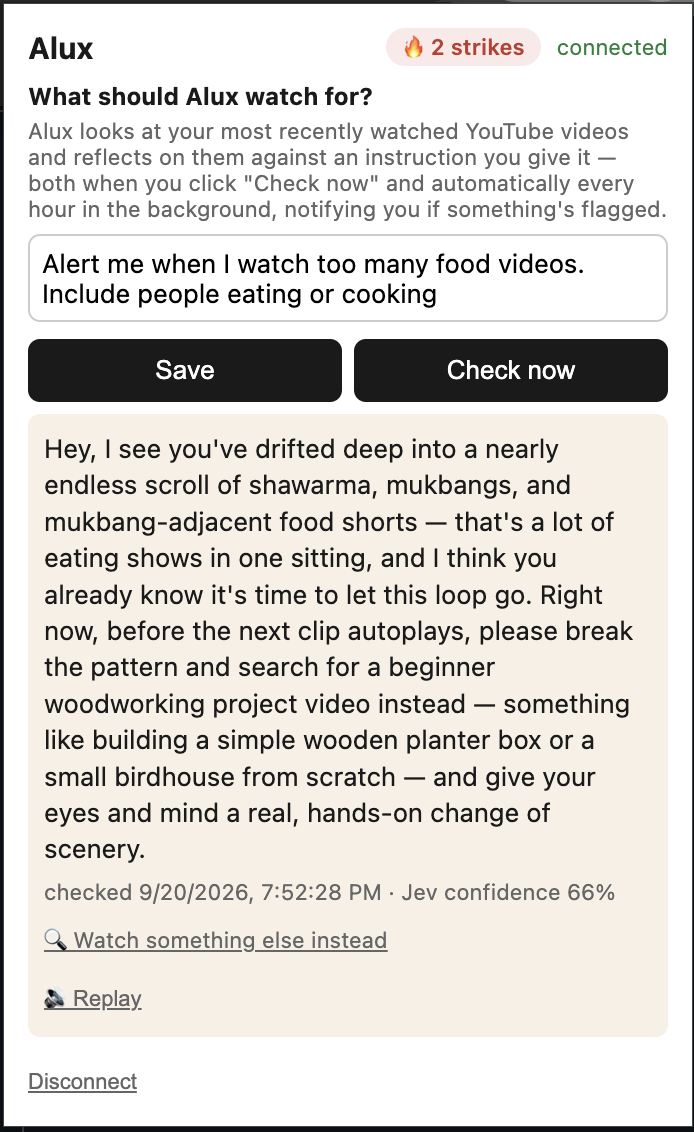
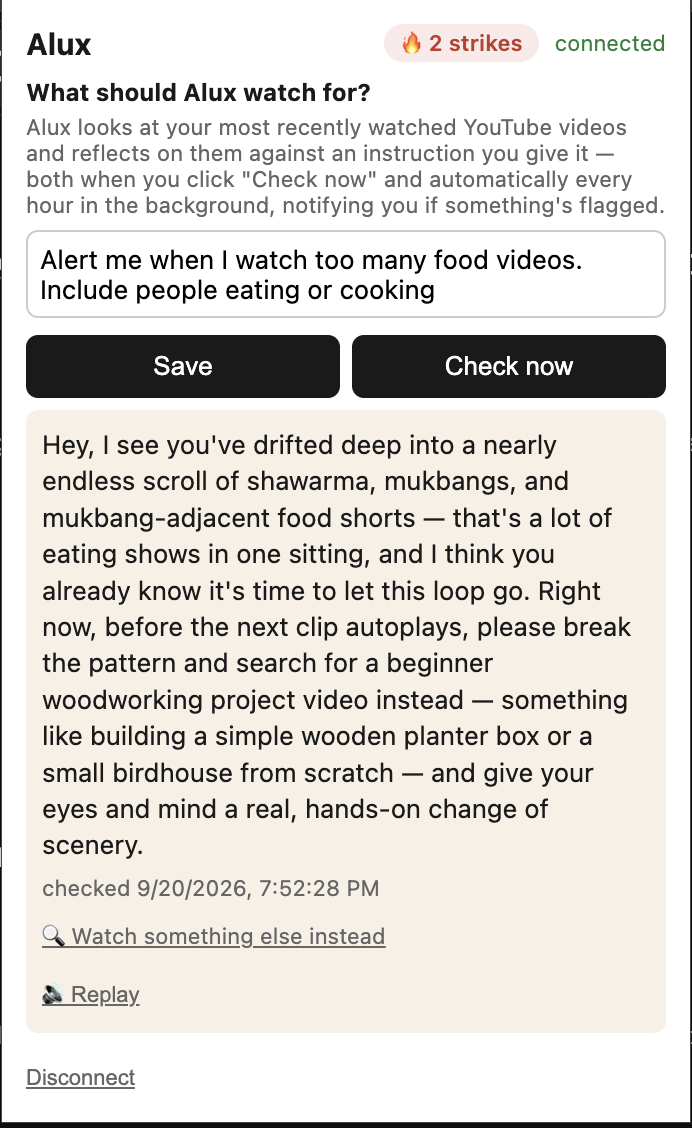
Trim the footer note from EVAL_RESULTS.md, update screenshot
Update the screenshot to match the current popup UI.

diff --git a/EVAL_RESULTS.md b/EVAL_RESULTS.md
@@ -23,9 +23,3 @@ extension itself — not a reimplementation.
 | --- | --- | --- | --- | --- | --- |
 | 2026-09-20 | 5 | 100% | 0 | 0 | 0 |
 | 2026-09-20 | 5 | 100% | 0 | 0 | 0 |
-
----
-_Regenerate with `node evals/summarize.js` after adding more hand-labeled
-cases to `evals/dataset.json` and re-running `npm run eval`. This file is
-the only eval-related artifact meant to be committed — everything else under
-`evals/` stays local (see `.gitignore`)._
